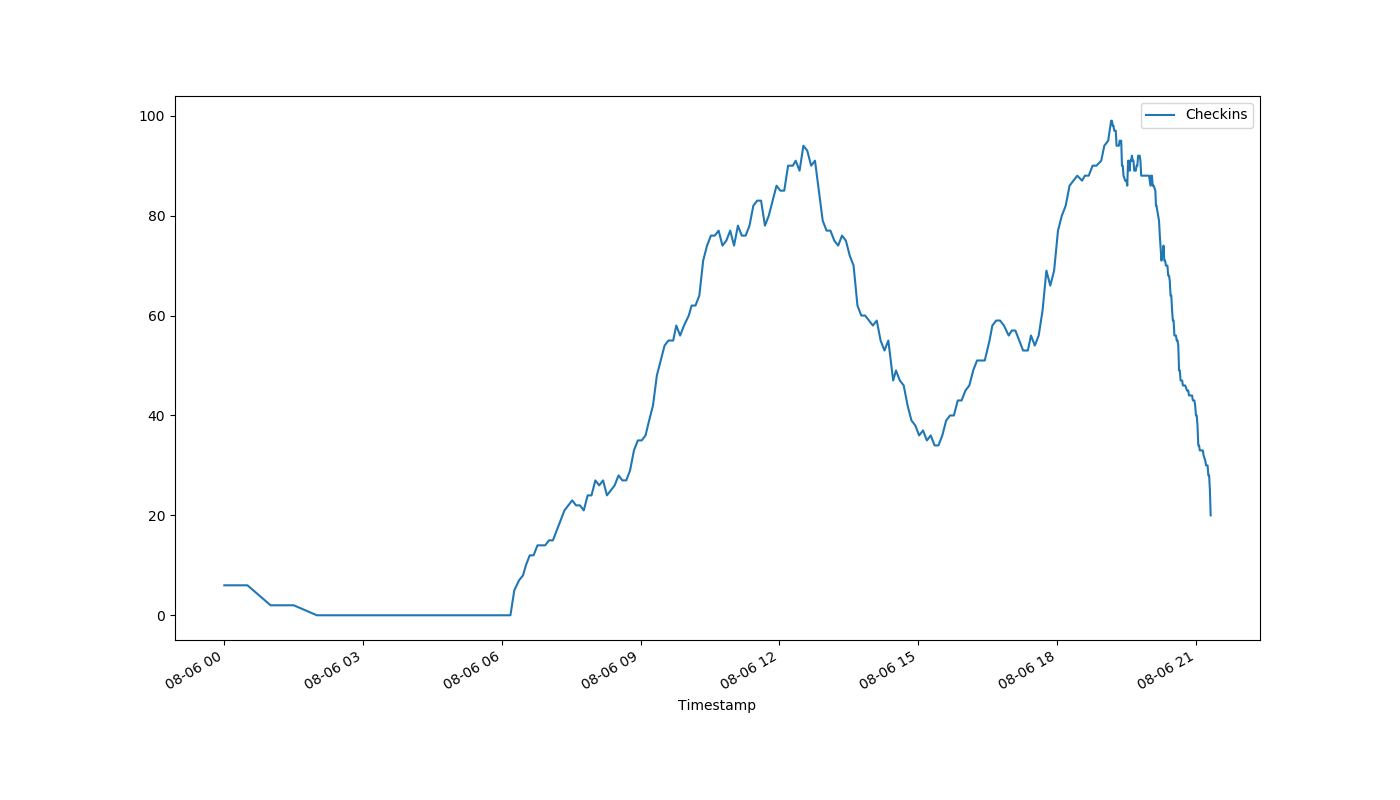
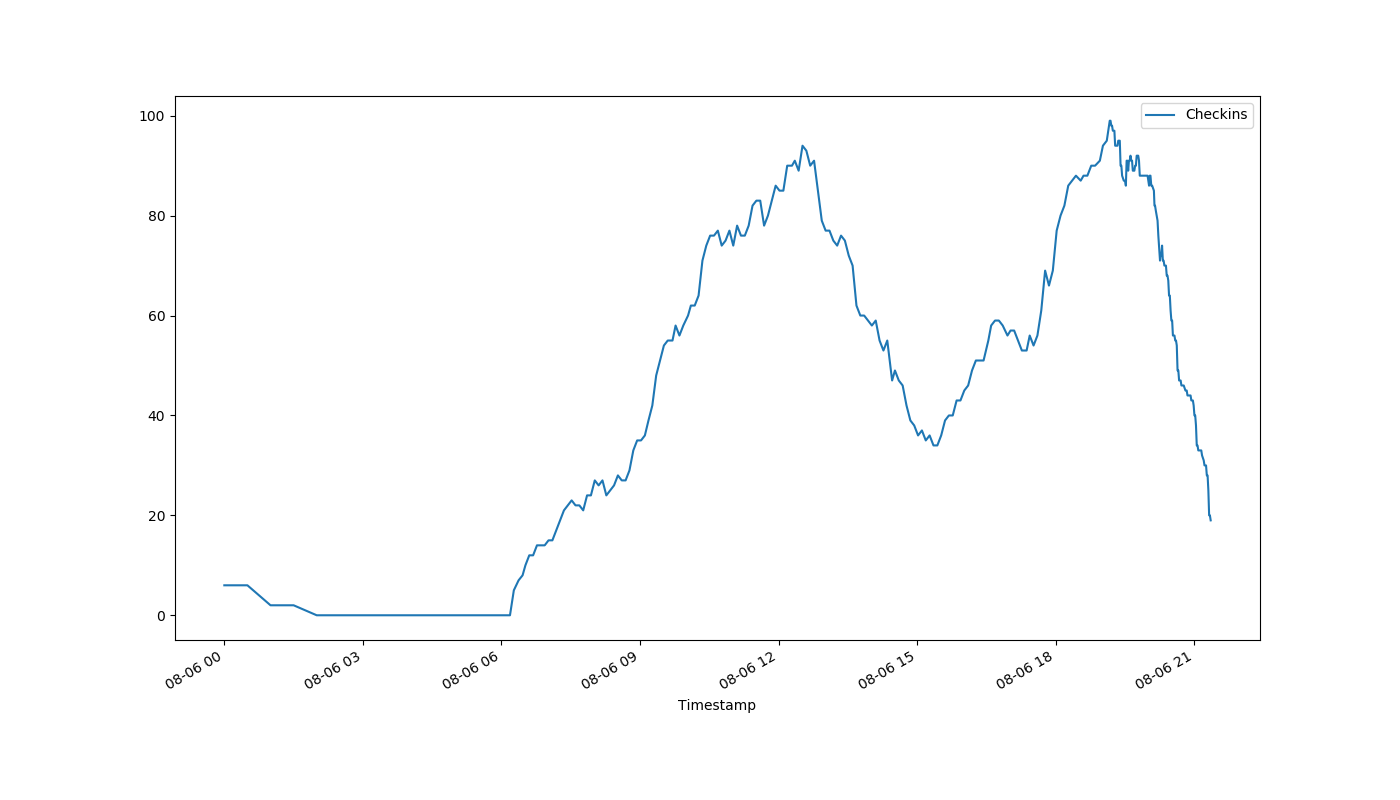
auto-Aug-06-21:22:13

diff --git a/index.html b/index.html
@@ -1,1 +1,1 @@
-<!DOCTYPE html><html><head><meta http-equiv="refresh" content="15"><link rel='stylesheet' href='holmcurrent.css'></head><body><p id='count'>20</p><div id='graph-wrap'><img id='graph' src='holmgraph-Aug-06.png'></div><p id='updated'>Last updated 21:20:04 / 21:19:16</p></body></html>
+<!DOCTYPE html><html><head><meta http-equiv="refresh" content="15"><link rel='stylesheet' href='holmcurrent.css'></head><body><p id='count'>19</p><div id='graph-wrap'><img id='graph' src='holmgraph-Aug-06.png'></div><p id='updated'>Last updated 21:22:04 / 21:21:17</p></body></html>
